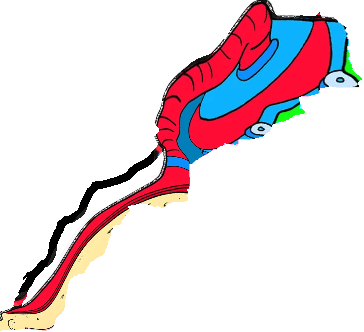
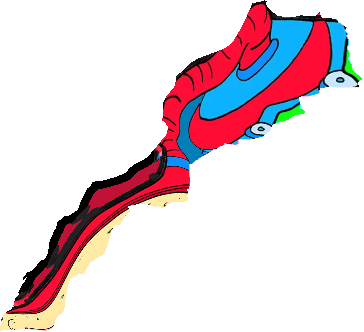
Fix Mauritania head stretch with rigid art fallback

diff --git a/tools/build_globe_global_warps.py b/tools/build_globe_global_warps.py
@@ -72,6 +72,8 @@ FORCED_ART_MASK_LOCK_MIN_RECALL = 0.90
 PRECISION_CLIP_GUARD_MIN_PRECISION = 0.93
 PRECISION_CLIP_GUARD_MAX_TARGET_AREA_PX = 42000
 LOW_RECALL_MASK_LOCK_MIN_RECALL = 0.90
+LARGE_GEO_LOCK_MIN_RECALL = 0.96
+LARGE_GEO_LOCK_MIN_PRECISION = 0.96
 TINY_FALLBACK_MIN_SCORE_GAIN = 0.008
 
 # Region-specific tuning where one global default is not sufficient.
@@ -194,6 +196,7 @@ ART_PRIORITY_FALLBACK_FEATURE_KEYS = {
     "MAD",  # legacy key guard
     "MDG",
     "MEX",
+    "MRT",
     "NOR",
     "PER",
     "PRK",
@@ -211,6 +214,20 @@ FORCED_ART_FALLBACK_FEATURE_KEYS = {
 LOW_RECALL_MASK_LOCK_FEATURE_KEYS = {
     "CUB",
     "ECU",
+}
+
+# Countries where a rigid bbox-fit render preserves mnemonic motifs better
+# than inverse sampling through the shared region warp.
+RIGID_ART_FALLBACK_FEATURE_KEYS = {
+    "MRT",
+}
+
+# Large countries still showing mask dropout/spill after shared-sheet render.
+LARGE_GEO_LOCK_FEATURE_KEYS = {
+    "AUS",
+    "MAR",
+    "RUS",
+    "SWE",
 }
 
 AGGRESSIVE_RELAX_FEATURE_KEYS = {
@@ -1336,6 +1353,22 @@ def render_country_with_inverse_map(
     return warped
 
 
+def render_country_with_bbox_fit(job: RegionCountryJob) -> np.ndarray:
+    """Rigidly fit source art to target bbox and clip to target mask."""
+    mask = (job.target_shape.mask > 0).astype(np.uint8)
+    out_h, out_w = mask.shape
+    src = job.render_rgba
+    fitted = np.array(
+        Image.fromarray(src, mode="RGBA").resize((out_w, out_h), resample=Image.Resampling.LANCZOS),
+        dtype=np.uint8,
+    )
+    fitted[:, :, 3] = (
+        (fitted[:, :, 3].astype(np.uint16) * mask.astype(np.uint16)) // 255
+    ).astype(np.uint8)
+    fitted[fitted[:, :, 3] <= OUTPUT_ALPHA_THRESHOLD, :3] = 0
+    return fitted
+
+
 def iou_from_alpha(alpha: np.ndarray, target_mask: np.ndarray) -> float:
     pred = alpha > OUTPUT_ALPHA_THRESHOLD
     tgt = target_mask > 0
@@ -1811,6 +1844,9 @@ def main() -> None:
                 sheet_iou = iou_from_alpha(sheet_rgba[:, :, 3], job.target_shape.mask)
                 sheet_recall = alpha_recall(sheet_rgba[:, :, 3], mask_u8)
                 fallback_rgba = render_country_with_inverse_map(job, model)
+                feature_key = str(job.country.get("featureKey", ""))
+                if feature_key in RIGID_ART_FALLBACK_FEATURE_KEYS:
+                    fallback_rgba = render_country_with_bbox_fit(job)
                 fallback_rgba = stabilize_tiny_island_rgba(
                     fallback_rgba,
                     mask_u8,
@@ -1828,7 +1864,6 @@ def main() -> None:
                     min_gain = 0.004
                 elif int(job.target_area) <= SMALL_COUNTRY_FALLBACK_MAX_TARGET_AREA_PX:
                     min_gain = 0.003
-                feature_key = str(job.country.get("featureKey", ""))
                 art_priority = feature_key in ART_PRIORITY_FALLBACK_FEATURE_KEYS
                 forced_art = feature_key in FORCED_ART_FALLBACK_FEATURE_KEYS
                 use_fallback = fallback_score > sheet_score + min_gain
@@ -1847,6 +1882,10 @@ def main() -> None:
                 ):
                     # Allow a larger geometric tradeoff for user-reported
                     # broken motifs to keep the drawing itself intact.
+                    use_fallback = True
+                if feature_key in RIGID_ART_FALLBACK_FEATURE_KEYS:
+                    # Explicit hard override for user-reported motif stretch:
+                    # always use rigid art fallback for these countries.
                     use_fallback = True
                 if (
                     not use_fallback
@@ -1899,6 +1938,17 @@ def main() -> None:
                 recall = alpha_recall(warped_rgba[:, :, 3], mask_u8)
                 if recall < LOW_RECALL_MASK_LOCK_MIN_RECALL:
                     warped_rgba = lock_alpha_to_mask(warped_rgba, mask_u8, pad_radius=1)
+
+            if feature_key in LARGE_GEO_LOCK_FEATURE_KEYS:
+                recall = alpha_recall(warped_rgba[:, :, 3], mask_u8)
+                precision = alpha_precision(warped_rgba[:, :, 3], mask_u8)
+                if (
+                    recall < LARGE_GEO_LOCK_MIN_RECALL
+                    or precision < LARGE_GEO_LOCK_MIN_PRECISION
+                ):
+                    # Keep mnemonic colors but enforce exact target coverage
+                    # for a small set of persistent large-country outliers.
+                    warped_rgba = lock_alpha_to_mask(warped_rgba, mask_u8, pad_radius=2)
 
             warped_rgba[warped_rgba[:, :, 3] <= OUTPUT_ALPHA_THRESHOLD, :3] = 0
             iou = iou_from_alpha(warped_rgba[:, :, 3], job.target_shape.mask)
